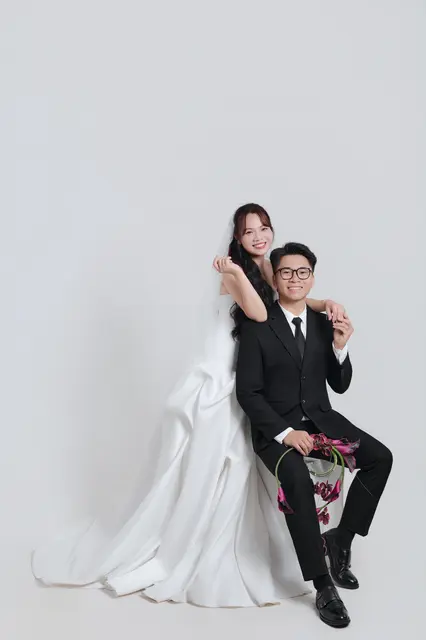
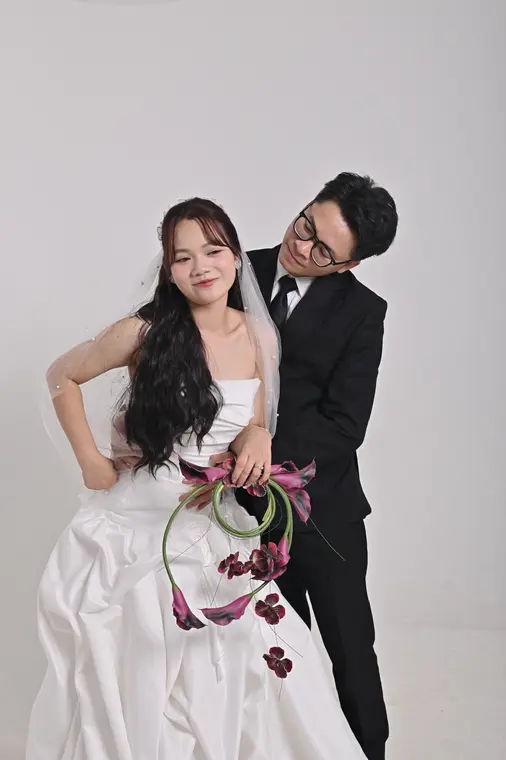
commit

diff --git a/src/test/jsdom-blob-fix.ts b/src/test/jsdom-blob-fix.ts
@@ -1,0 +1,24 @@
+/**
+ * jsdom's Blob implementation lacks `arrayBuffer()` / `text()` / `stream()`.
+ * Replace the jsdom window's Blob with Node's `buffer.Blob` (which implements
+ * the full spec) so code under test that reads blob contents works in tests.
+ */
+export function installJsdomBlobFix(): void {
+  const jsdomWindow = (globalThis as unknown as { window?: unknown }).window as
+    Record<string, unknown> | undefined;
+  if (!jsdomWindow) return;
+  // eslint-disable-next-line @typescript-eslint/no-require-imports
+  const nodeBlob = require("node:buffer").Blob as
+    (new (parts: BlobPart[]) => { arrayBuffer(): Promise<ArrayBuffer> }) | undefined;
+  if (typeof nodeBlob !== "function") return;
+  if (typeof new nodeBlob([]).arrayBuffer !== "function") return;
+  const jsdomBlobProto = (
+    jsdomWindow["Blob"] as { prototype?: Record<string, unknown> } | undefined
+  )?.prototype;
+  if (typeof jsdomBlobProto?.["arrayBuffer"] === "function") return;
+  Object.defineProperty(jsdomWindow, "Blob", {
+    configurable: true,
+    writable: true,
+    value: nodeBlob,
+  });
+}

diff --git a/src/lib/qr-image.test.ts b/src/lib/qr-image.test.ts
@@ -13,7 +13,7 @@ describe("QR image downloads", () => {
     const response = new Response(png, { headers: { "Content-Type": "image/png" } });
     const result = await qrResponseToPng(response);
     expect(result.type).toBe("image/png");
-    expect(new Uint8Array(await new Response(result).arrayBuffer())).toEqual(png);
+    expect(new Uint8Array(await result.arrayBuffer())).toEqual(png);
   });
 
   it("rejects unsupported or invalid source images", async () => {

diff --git a/vitest.config.ts b/vitest.config.ts
@@ -2,6 +2,11 @@ import { defineConfig } from "vitest/config";
 import react from "@vitejs/plugin-react";
 import path from "node:path";
 
+// jsdom's Blob lacks arrayBuffer()/text(); patch it via Node's Blob before tests run.
+import { installJsdomBlobFix } from "./src/test/jsdom-blob-fix";
+
+installJsdomBlobFix();
+
 export default defineConfig({
   plugins: [react()],
   test: {

diff --git a/src/test/setup.ts b/src/test/setup.ts
@@ -1,5 +1,9 @@
 import "@testing-library/jest-dom/vitest";
 
+import { installJsdomBlobFix } from "./jsdom-blob-fix";
+
+installJsdomBlobFix();
+
 Object.defineProperty(window, "scrollTo", {
   writable: true,
   value: () => {},
